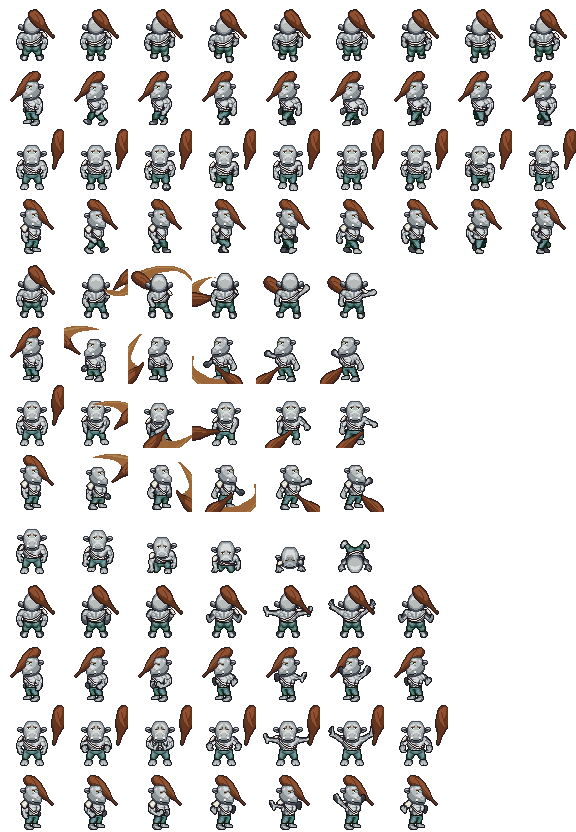
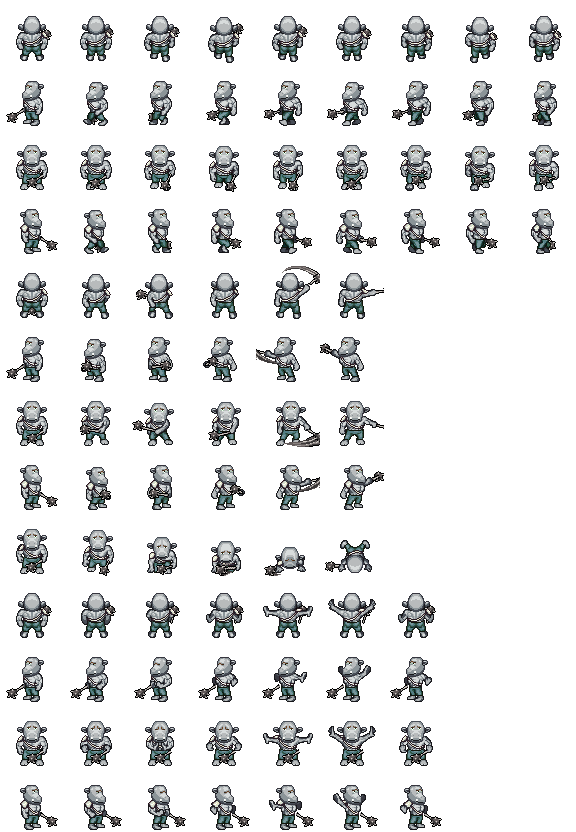
Mobs: replace clubs (no walk pose, misaligned swing) with flail/mace/war axe held naturally
troll -> flail + pauldrons, snowtroll -> mace, frostcyclops -> war axe, volcanogiant -> mace

Claude-Session: https://claude.ai/code/session_01RVFgCBNzd2DQowAD8LfVDX

diff --git a/tools/mobs/build_mobs.py b/tools/mobs/build_mobs.py
@@ -123,15 +123,15 @@ def M():
         "boss_minotaur": lambda: L(W("blunt/waraxe"), cape("maroon"), mus("fur_copper"), plate_legs("iron"), legion("iron"), shoulder("bauldron", "iron"), head("minotaur", "fur_copper"), horns("curled")),
         # มอนเลเวลต่ำแบบคน (ทำใหม่: มีอาวุธ/ชุดเกราะ ไม่ใช่แค่ตัวเปล่าย้อมสี)
         "orc":         lambda: L(W("blunt/waraxe"), mus("green"), pants("brown"), leather(), shoulder("pauldrons", "iron"), head("orc", "green")),
-        "troll":       lambda: L(W("blunt/club"), mus("taupe"), pants("walnut"), head("troll", "taupe")),
+        "troll":       lambda: L(W("blunt/flail"), mus("taupe"), pants("walnut"), head("troll", "taupe"), shoulder("pauldrons", "iron")),
         "minotaur":    lambda: L(W("polearm/halberd"), mus("fur_brown"), pants("maroon"), legion("bronze"), head("minotaur", "fur_brown")),
-        "snowtroll":   lambda: L(W("blunt/club"), mus("fur_white"), pants("bluegray"), shoulder("bauldron", "silver"), head("troll", "fur_white")),
+        "snowtroll":   lambda: L(W("blunt/mace"), mus("fur_white"), pants("bluegray"), shoulder("bauldron", "silver"), head("troll", "fur_white")),
         "skeleton":    lambda: L(W("sword/saber"), body("skeleton", "light"), head("skeleton", "light")),
         # ยอดเขาน้ำแข็ง 34–44
         "frostgiant":  lambda: L(W("blunt/mace"), mus("fur_white"), pants("navy"), plate("silver"), head("troll", "fur_white"), helm("horned", "silver")),
         "snowwraith":  lambda: L(wings("feathered", "platinum"), body("skeleton", "light"), robe("white"), head("skeleton", "light")),
         "icewolfman":  lambda: L(tail("wolf", "platinum"), mus("fur_white"), pants("bluegray"), head("wolf", "fur_white")),
-        "frostcyclops":lambda: L(W("blunt/club"), mus("blue"), pants("slate"), shoulder("bauldron", "silver"), head("human", "blue", "male_plump"), cyclops()),
+        "frostcyclops":lambda: L(W("blunt/waraxe"), mus("blue"), pants("slate"), shoulder("bauldron", "silver"), head("human", "blue", "male_plump"), cyclops()),
         # บึงพิษมรณะ 42–52
         "bogzombie":   lambda: L(body("zombie", "zombie_green"), pants_m("forest"), head("zombie", "zombie_green")),
         "venomlizard": lambda: L(W("polearm/spear"), tail("lizard", None, pal=None), mus("dark_green"), pants("maroon"), head("lizard", "dark_green")),
@@ -161,7 +161,7 @@ def M():
         "draconian":   lambda: L(W("polearm/dragonspear"), wings("lizard", None), tail("lizard", None), mus("green"), pants("forest"), head("lizard", "green"), horns("backwards")),
         "dragonknight":lambda: L(W("sword/glowsword"), wings("lizard", None), mus("light"), plate_legs("gold"), plate("gold"), head("human", "light"), helm("maximus", "gold")),
         "wyvern":      lambda: L(wings("bat", "navy"), tail("lizard", None), mus("blue"), pants("navy"), head("lizard", "blue")),
-        "volcanogiant":lambda: L(W("blunt/club"), mus("black"), pants("maroon"), metal("torso/armour/legion/male", "copper"), head("troll", "black"), shoulder("bauldron", "copper")),
+        "volcanogiant":lambda: L(W("blunt/mace"), mus("black"), pants("maroon"), metal("torso/armour/legion/male", "copper"), head("troll", "black"), shoulder("bauldron", "copper")),
         # ห้วงอเวจี 90–99
         "deathknight": lambda: L(W("polearm/scythe"), cape("black"), body("skeleton", "light"), plate_legs("iron"), plate("iron"), head("skeleton", "light"), helm("xeon", "iron")),
         "shadowdemon": lambda: L(W("sword/katana"), wings("feathered", "black"), mus("lavender"), pants("black"), head("human", "lavender"), horns("curled")),
